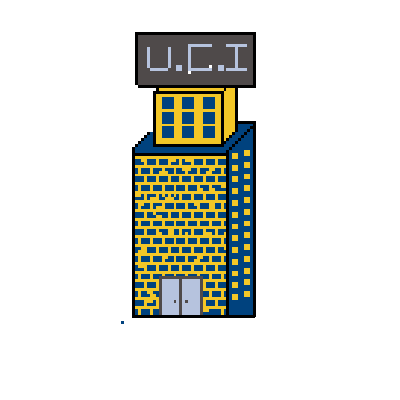
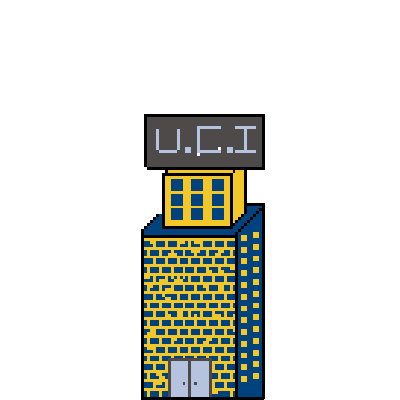
add building imgs

Changed region(s): [[0.33, 0.06, 0.66, 1.0]]

diff --git a/index.html b/index.html
@@ -235,7 +235,7 @@
                         </div>
                     </div>
                 </div>
-                <ol>
+                <ol class="exp_time">
                     <li>
                     </li>
                     <li>
@@ -247,9 +247,6 @@
                         <p class="description">
                             International Studies
                         </p>
-                        <div class="building_unit">
-                            <img class="img-responsive " src="img/UCI.png" alt="UCLA logo">
-                        </div>
                     </li>
                     <li>
                         <div class="target1"></div>
@@ -285,6 +282,38 @@
                         <p class="description">Front-End Developer</p>
                     </li>
                 </ol>
+
+                <!-- Buildings -->
+                <ol class="building_time">
+                    <li>
+                    </li>
+                    <li>
+                        <div class="building_unit">
+                            <img class="img-responsive " src="img/UCI.png" alt="UCLA logo">
+                        </div>
+                    </li>
+                    <li>
+                        <div class="building_unit">
+                            <img class="img-responsive " src="img/LushBuilding.png" alt="UCLA logo">
+                        </div>
+                    </li>
+                    <li>
+                        <div class="building_unit">
+                            <img class="img-responsive " src="img/UCLABuilding.png" alt="UCLA logo">
+                        </div>
+                    </li>
+                    <li>
+                        <div class="building_unit">
+                            <img class="img-responsive " src="img/TES.png" alt="UCLA logo">
+                        </div>
+                    </li>
+                    <li>
+                        <div class="building_unit">
+                            <img class="img-responsive " src="img/LSF.png" alt="UCLA logo">
+                        </div>
+                    </li>
+                </ol>
+                <!-- buidlings end -->
                 <div class="an_trigger"></div>
             </div>
             <!--

diff --git a/css/animation.css b/css/animation.css
@@ -447,13 +447,20 @@
   
   /* ---- Timeline ---- */
   
-  .cd-horizontal-timeline ol {
+  .cd-horizontal-timeline .exp_time {
     position: relative;
     display: block;
     margin: 100px;
     height: 4px;
     top: 50%;
     width: 90%;
+  }
+  .cd-horizontal-timeline .building_time {
+    position: absolute;
+    margin: 0%;
+    bottom: 0;
+    width: 90%;
+    display: block;
   }
   
   
@@ -476,8 +483,8 @@
   }
   .building_unit {
     position: absolute;
-    top: 32px;
-    left: 50%;
+    bottom: 32px;
+    left: 65%;
     transform: translateX(-50%);
     z-index: 1;
   }
